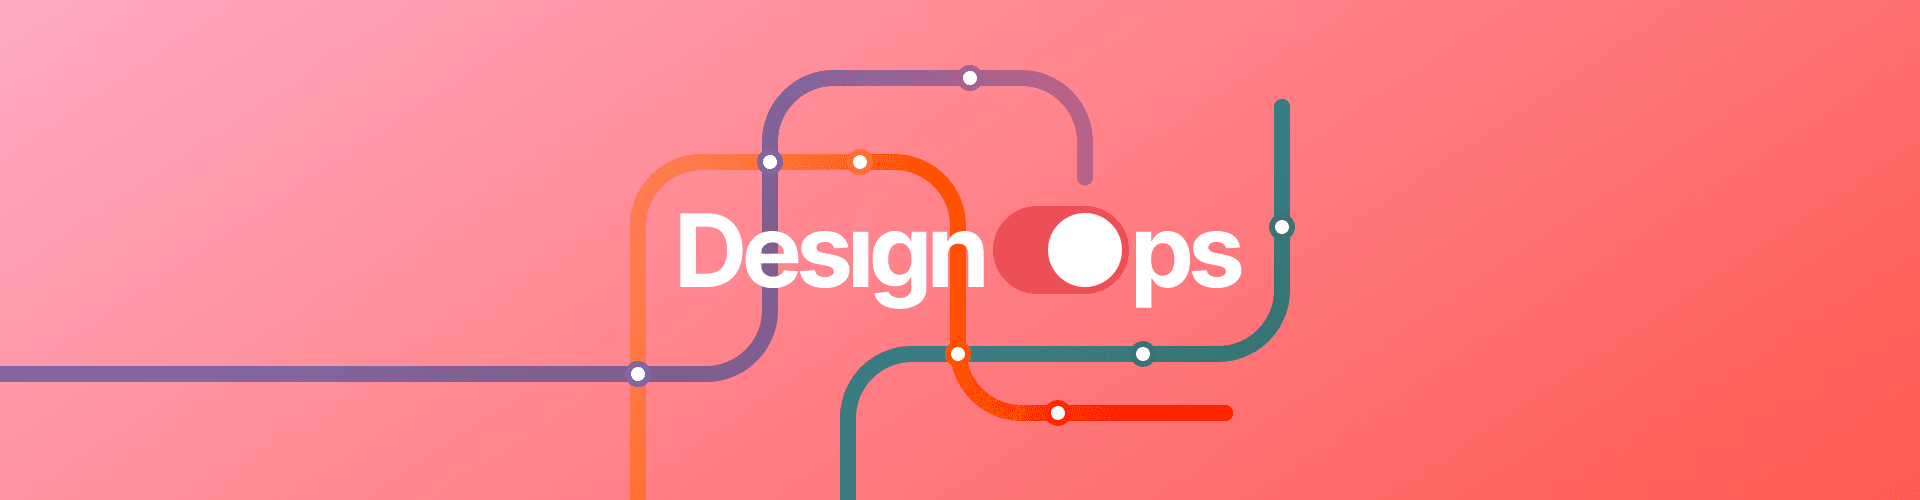
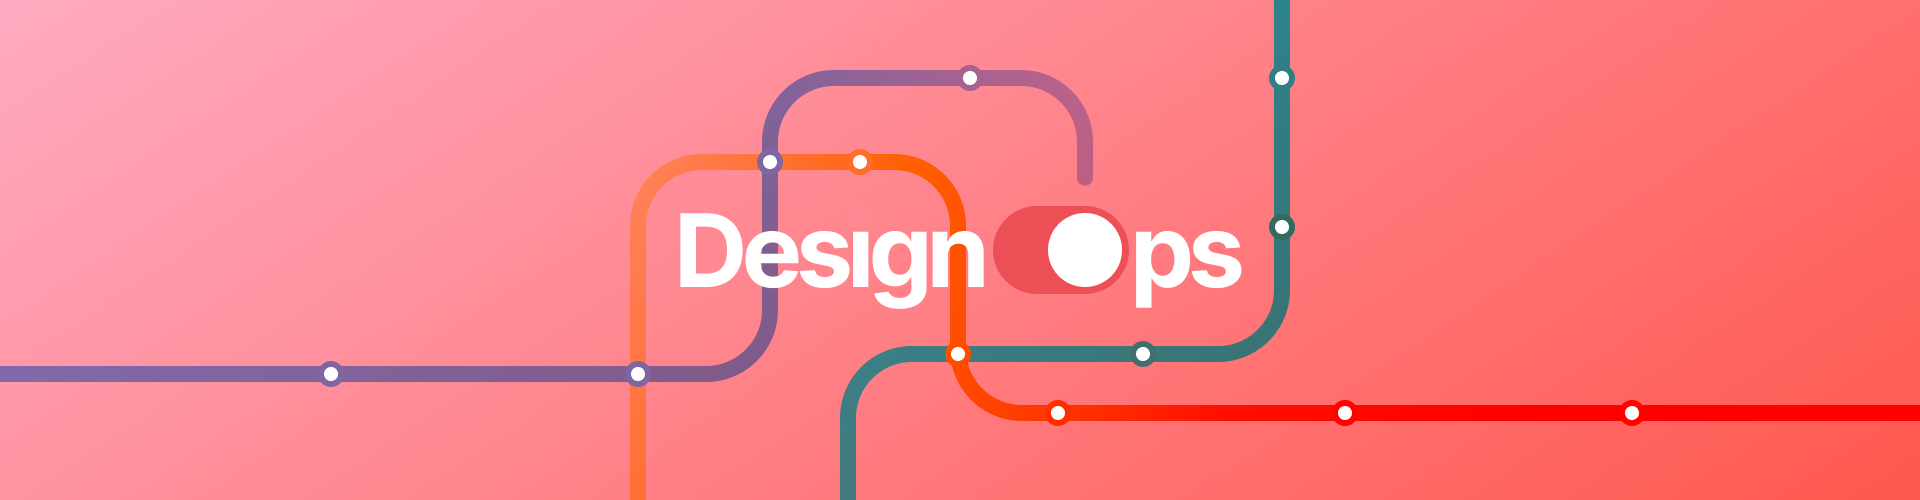
Changed image, CSS and order pages

diff --git a/designops.html b/designops.html
@@ -144,11 +144,10 @@
         </div>
 
         <div class="col-lg-8 col-sm-12 px-lg-5">
-          <h3 data-i18n="designops_description_hero">
-            When I took ownership of the design system for Oxxio and Eneco, the goal wasn't just to fix UI
-            inconsistencies — it was to rebuild trust. Trust in the system, between design and engineering, and from
-            users in a product that didn't yet feel reliable. The design system became the lever for an App-first
-            transformation.
+          <h3>
+            When I took ownership of the design system for Oxxio and Eneco, the mission was to rebuild trust at scale.
+            The system became the foundation of an App-first transformation, unifying Web and App experiences while
+            DesignOps established the culture and habits that enabled teams to ship quality consistently.
           </h3>
         </div>
       </div>
@@ -166,10 +165,10 @@
           <div class="col-9 content">
             <h5 data-i18n="general.wip">Work In Progress</h5>
             <!-- <h2>This is a preview of the project</h2> -->
-            <p data-i18n="system.protected_desc">
+            <p>
               Spark Design System and the App development are ongoing projects. <br>
               We are currently busy improving our foundations, and building thoroughly documented and accessible
-              components.<br> <br>
+              components.<br>
               The rest of this content is currently protected.
             </p>
             <div class="text-center text-lg-start">

diff --git a/private/5face4c93baff88a89a7fb13a3cebba9f4f93634/index.html b/private/5face4c93baff88a89a7fb13a3cebba9f4f93634/index.html
@@ -137,10 +137,9 @@
 
         <div class="col-lg-8 col-sm-12 px-lg-5">
           <h3 data-i18n="designops_description_hero">
-            When I took ownership of the design system for Oxxio and Eneco, the goal wasn't just to fix UI
-            inconsistencies — it was to rebuild trust. Trust in the system, between design and engineering, and from
-            users in a product that didn't yet feel reliable. The design system became the lever for an App-first
-            transformation.
+            When I took ownership of the design system for Oxxio and Eneco, the mission was to rebuild trust at scale.
+            The system became the foundation of an App-first transformation, unifying Web and App experiences while
+            DesignOps established the culture and habits that enabled teams to ship consistently with confidence.
           </h3>
         </div>
       </div>

diff --git a/custom.css b/custom.css
@@ -565,6 +565,7 @@ section {
 .about .content {
   border-radius: var(--border-radius-large);
   background-color: transparent;
+  padding: var(--space-small);
 }
 
 .portfolio-project-nav {
@@ -1007,7 +1008,7 @@ section {
 }
 
 .callout p {
-  margin: 8px 0 16px 0;
+  margin: 16px 0 16px 0;
 }
 
 .callout strong {